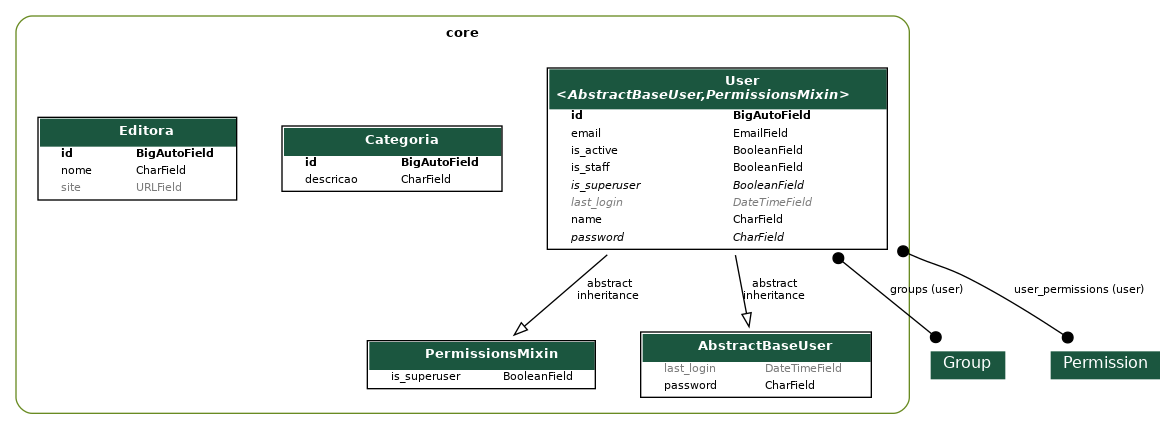
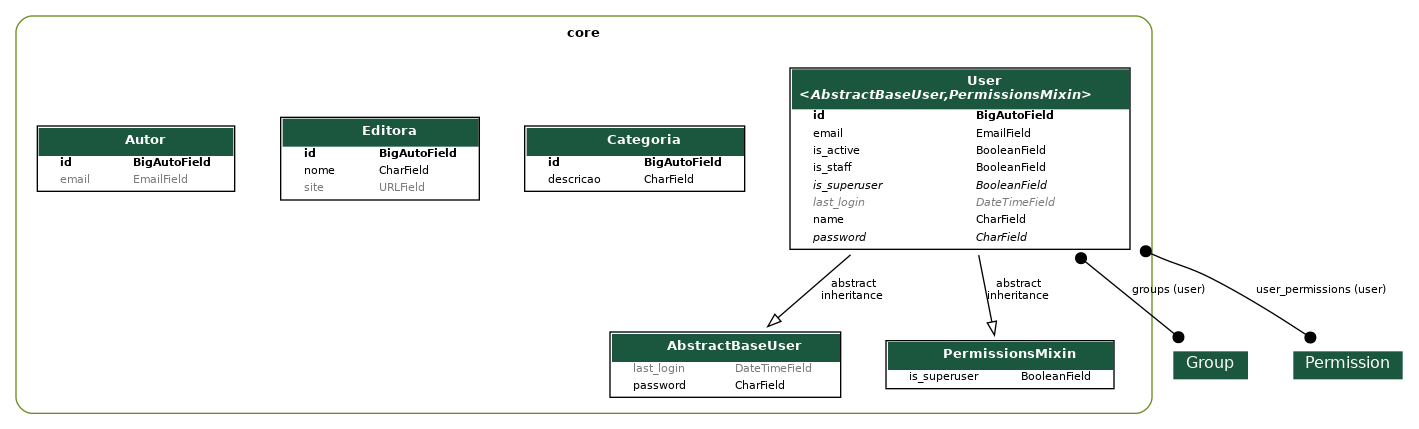
Criação api autor

diff --git a/app/urls.py b/app/urls.py
@@ -9,13 +9,14 @@ from drf_spectacular.views import (
 from rest_framework.routers import DefaultRouter
 from rest_framework_simplejwt.views import TokenObtainPairView, TokenRefreshView
 
-from core.views import CategoriaViewSet, EditoraViewSet, UserViewSet
+from core.views import AutorViewSet, CategoriaViewSet, EditoraViewSet, UserViewSet
 
 router = DefaultRouter()
 
 router.register(r"categorias", CategoriaViewSet, basename="categorias")
 router.register(r"editoras", EditoraViewSet, basename="editoras")
 router.register(r"users", UserViewSet, basename="users")
+router.register(r"autor", AutorViewSet, basename="autores")
 
 urlpatterns = [
     path("admin/", admin.site.urls),

diff --git a/core/migrations/0004_autor.py b/core/migrations/0004_autor.py
@@ -1,0 +1,20 @@
+# Generated by Django 5.0.2 on 2024-03-15 12:25
+
+from django.db import migrations, models
+
+
+class Migration(migrations.Migration):
+
+    dependencies = [
+        ("core", "0003_editora"),
+    ]
+
+    operations = [
+        migrations.CreateModel(
+            name="Autor",
+            fields=[
+                ("id", models.BigAutoField(auto_created=True, primary_key=True, serialize=False, verbose_name="ID")),
+                ("email", models.EmailField(blank=True, max_length=200, null=True)),
+            ],
+        ),
+    ]

diff --git a/core/views/autor.py b/core/views/autor.py
@@ -1,0 +1,9 @@
+from rest_framework.viewsets import ModelViewSet
+
+from core.models import Autor
+from core.serializers import AutorSerializer
+
+
+class EditoraViewSet(AutorViewSet):
+    queryset = Autor.objects.all()
+    serializer_class = AutorSerializer

diff --git a/core/models/autor.py b/core/models/autor.py
@@ -1,0 +1,8 @@
+from django.db import models 
+
+class Autor(models.Model):
+    nome = models.CharField(max_length=100),
+    email = models.EmailField(max_length=200, blank=True, null=True)
+
+    def _str_(self):
+        return f"{self.nome}, ({self.id})"

diff --git a/core/serializers/autor.py b/core/serializers/autor.py
@@ -1,0 +1,9 @@
+from rest_framework.serializers import ModelSerializer 
+
+from core.models import Autor
+
+
+class AutorSerializer(ModelSerializer):
+    class Meta:
+        model = Autor
+        fields = "__all__"

diff --git a/core/admin.py b/core/admin.py
@@ -52,3 +52,4 @@ class UserAdmin(BaseUserAdmin):
 admin.site.register(models.User, UserAdmin)
 admin.site.register(models.Categoria)
 admin.site.register(models.Editora)
+admin.site.register(models.Autor)

diff --git a/core/serializers/__init__.py b/core/serializers/__init__.py
@@ -1,3 +1,4 @@
 from .user import UserSerializer
 from .categoria import CategoriaSerializer
 from .editora import EditoraSerializer
+from .autor import AutorSerializer

diff --git a/core/models/__init__.py b/core/models/__init__.py
@@ -1,5 +1,6 @@
 from .user import User
 from .categoria import Categoria
 from .editora import Editora
+from .autor import Autor
 
 # após esse passo criar migração

diff --git a/core/views/__init__.py b/core/views/__init__.py
@@ -1,3 +1,4 @@
 from .user import UserViewSet
 from .categoria import CategoriaViewSet
 from .editora import EditoraViewSet
+from .autor import AutorViewSet
